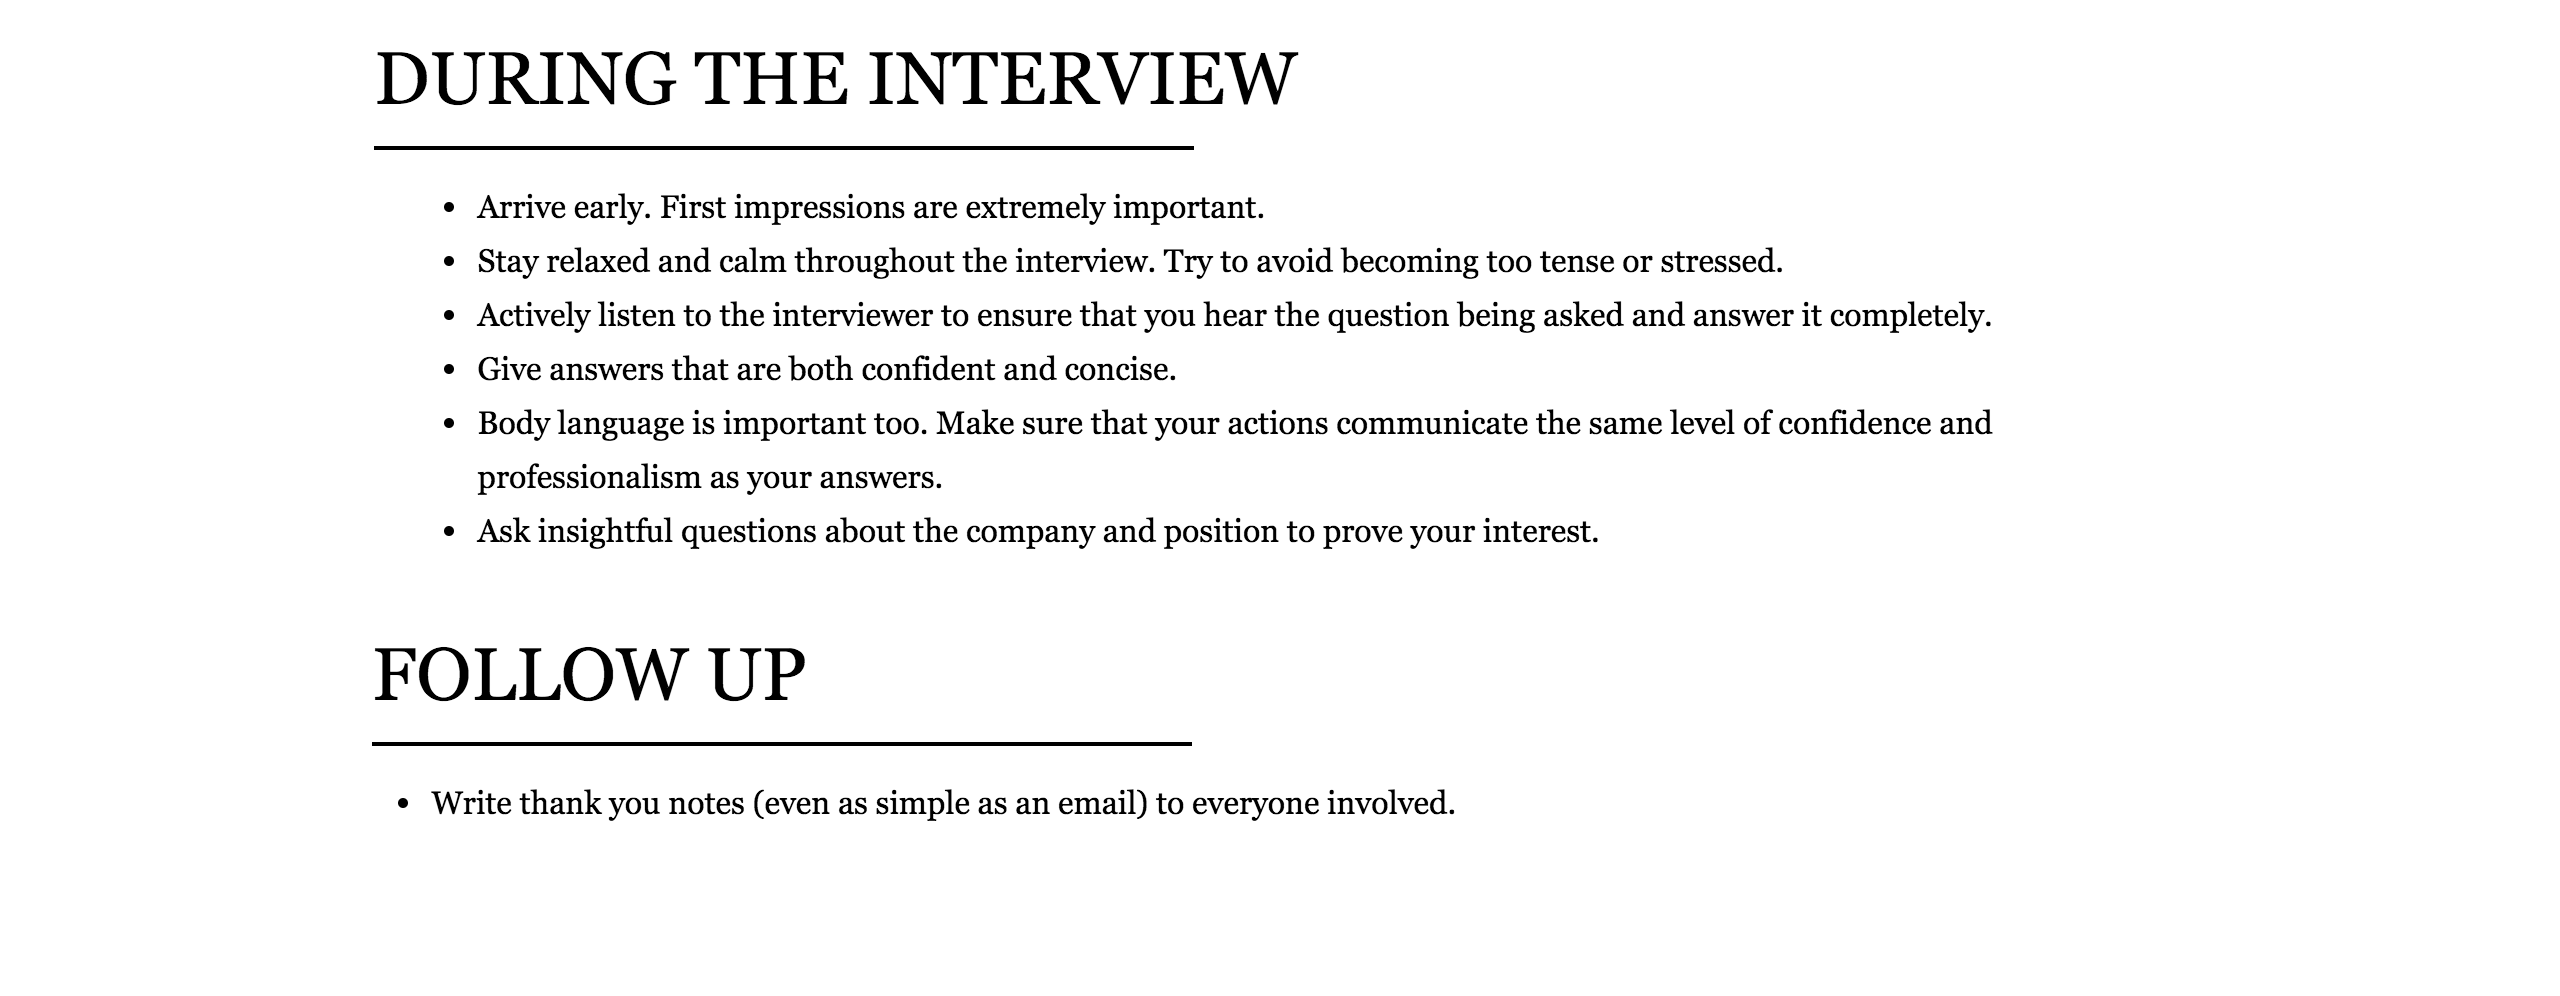
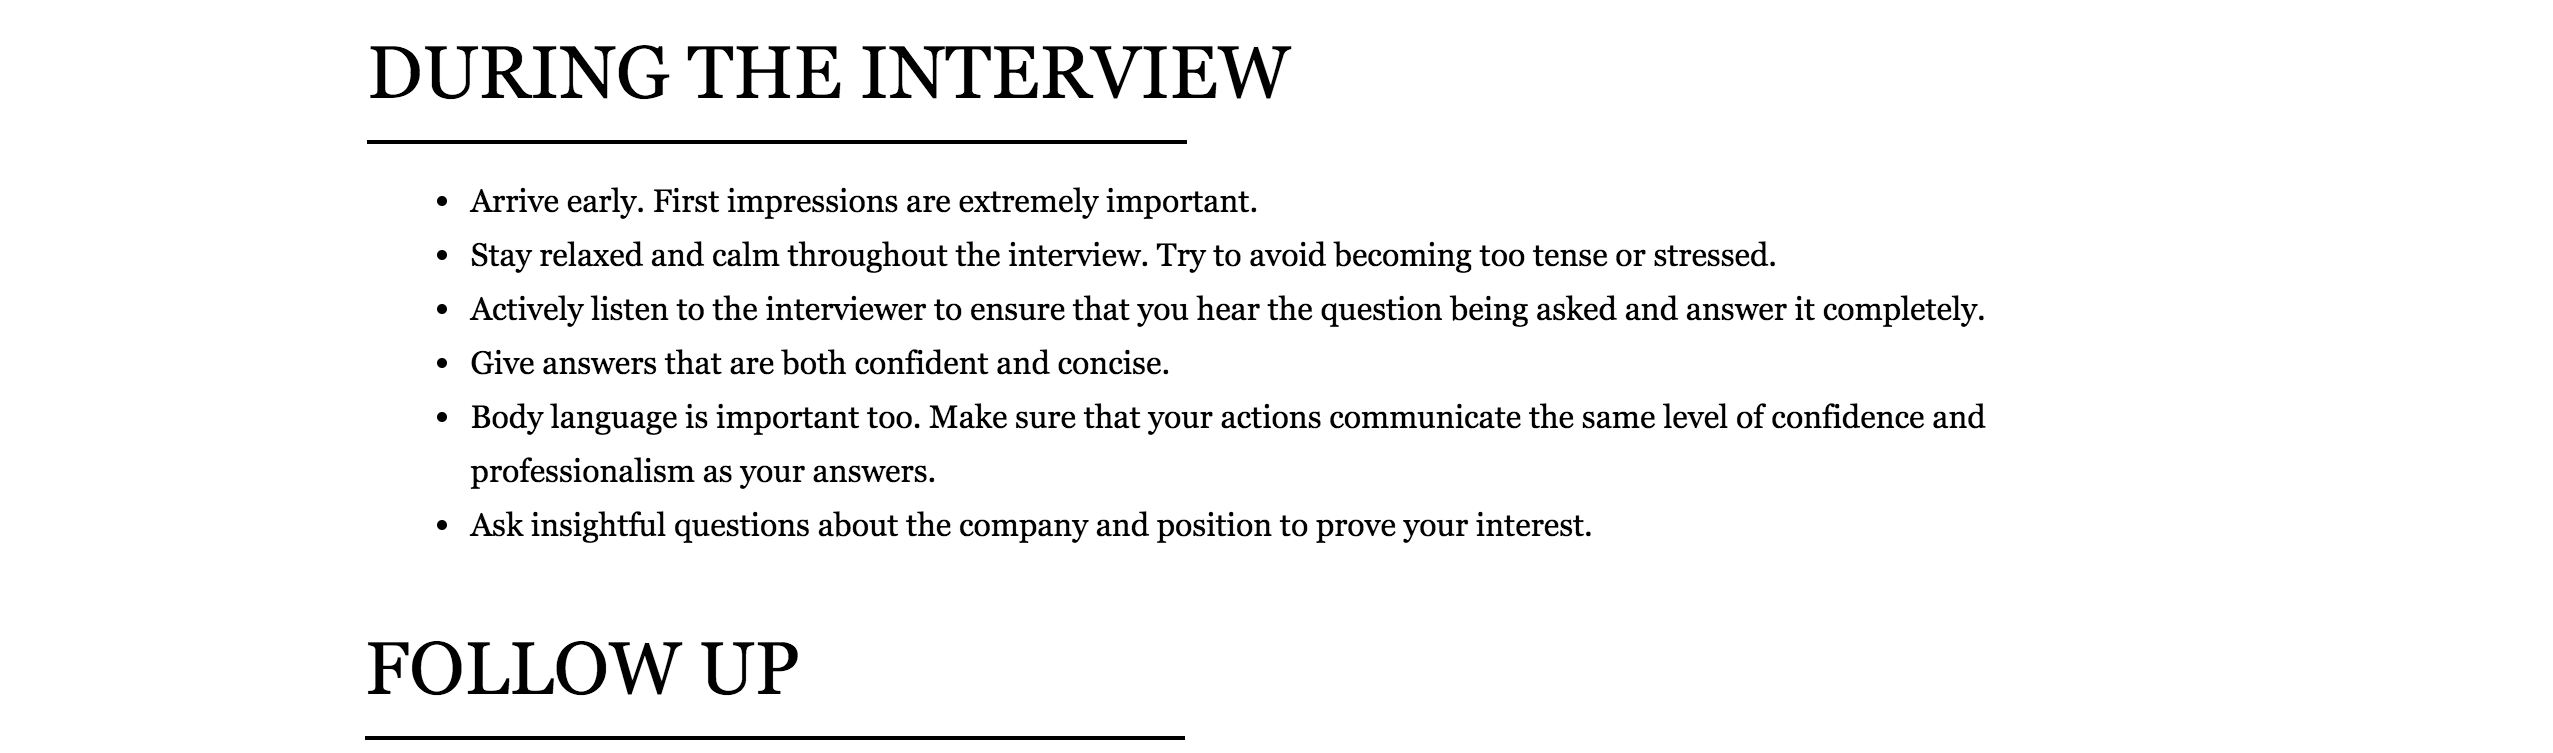
fixed tips page & interview tips page

diff --git a/tips.html b/tips.html
@@ -204,6 +204,96 @@
     button:hover{
         cursor: pointer;
     }
+        
+.hovereffect {
+  width: 100%;
+  height: 100%;
+  float: left;
+  overflow: hidden;
+  position: relative;
+  text-align: center;
+  cursor: default;
+  background: #FCD307;
+}
+
+.hovereffect .overlay {
+  width: 100%;
+  height: 100%;
+  position: absolute;
+  overflow: hidden;
+  top: 0;
+  left: 0;
+  padding: 50px 20px;
+}
+
+.hovereffect img {
+  display: block;
+  position: relative;
+  max-width: none;
+  width: calc(100% + 20px);
+  -webkit-transition: opacity 0.35s, -webkit-transform 0.35s;
+  transition: opacity 0.35s, transform 0.35s;
+  -webkit-transform: translate3d(-10px,0,0);
+  transform: translate3d(-10px,0,0);
+  -webkit-backface-visibility: hidden;
+  backface-visibility: hidden;
+}
+
+.hovereffect:hover img {
+  opacity: 0.4;
+  filter: alpha(opacity=40);
+  -webkit-transform: translate3d(0,0,0);
+  transform: translate3d(0,0,0);
+}
+
+.hovereffect h2 {
+  text-transform: uppercase;
+  color: #fff;
+  text-align: center;
+  position: relative;
+  font-size: 17px;
+  overflow: hidden;
+  padding: 0.5em 0;
+  background-color: transparent;
+}
+
+.hovereffect h2:after {
+  position: absolute;
+  bottom: 0;
+  left: 0;
+  width: 100%;
+  height: 2px;
+  background: #fff;
+  content: '';
+  -webkit-transition: -webkit-transform 0.35s;
+  transition: transform 0.35s;
+  -webkit-transform: translate3d(-100%,0,0);
+  transform: translate3d(-100%,0,0);
+}
+
+.hovereffect:hover h2:after {
+  -webkit-transform: translate3d(0,0,0);
+  transform: translate3d(0,0,0);
+}
+
+.hovereffect a, .hovereffect p {
+  color: #FFF;
+  opacity: 0;
+  filter: alpha(opacity=0);
+  -webkit-transition: opacity 0.35s, -webkit-transform 0.35s;
+  transition: opacity 0.35s, transform 0.35s;
+  -webkit-transform: translate3d(100%,0,0);
+  transform: translate3d(100%,0,0);
+}
+
+.hovereffect:hover a, .hovereffect:hover p {
+  opacity: 1;
+  filter: alpha(opacity=100);
+  -webkit-transform: translate3d(0,0,0);
+  transform: translate3d(0,0,0);
+}
+
+
     
    
     
@@ -222,14 +312,61 @@
     
     
      <img src="tipsheader.png" width=100%>
+    <br><br>
+     <img src="mustreadtips.png" width=90% style="margin-left: 65px">
     
-    <div id=container>
-    <center><img id="tipsgraphic" src="tipsmainscreen.png"></center>
-        <button id="interview" onclick="location.href = 'interviewtips.html'"></button>
-        <button id="resume" onclick="location.href = 'resumetips.html'"></button>
-        <button id="coverletter" onclick="location.href = 'coverlettertips.html'"></button>
-        <button id="application" onclick="location.href = 'applicationformtips.html'"></button>
+    
+<div class="container" style="margin-top:30px; padding-bottom: 35px;    margin-left: 30%">
+  <div class="row">
+    
+    <div class="col-lg-3 col-md-4 col-sm-6 col-xs-12">
+      <div class="hovereffect">
+        <img class="img-responsive" src="interview_tips_pg.jpeg" alt="" style="height: 250px">
+        <div class="overlay">
+          <h2>INTERVIEW</h2>
+				  <p><a href="interviewtips.html">GET STARTED</a></p> 
+        </div>
+      </div>
     </div>
+      
+          <div class="col-lg-3 col-md-4 col-sm-6 col-xs-12">
+      <div class="hovereffect">
+        <img class="img-responsive" src="resume_tips_pg.jpeg" alt="" style="height: 250px">
+        <div class="overlay">
+          <h2>RESUME</h2>
+				  <p><a href="resumetips.html">GET STARTED</a></p> 
+        </div>
+      </div>
+    </div> <br><br><br><br><br><br><br><br><br><br><br><br><br><br>
+      
+          <div class="col-lg-3 col-md-4 col-sm-6 col-xs-12">
+      <div class="hovereffect">
+        <img class="img-responsive" src="coverletter_tips_pg.jpeg" alt="" style="height: 250px">
+        <div class="overlay">
+          <h2>COVER LETTER</h2>
+				  <p><a href="coverlettertips.html">GET STARTED</a></p> 
+        </div>
+      </div>
+    </div>
+      
+          <div class="col-lg-3 col-md-4 col-sm-6 col-xs-12">
+      <div class="hovereffect">
+        <img class="img-responsive" src="application_tips_pg.jpeg" alt="" style="height: 250px">
+        <div class="overlay">
+          <h2>APPLICATION FORMS</h2>
+				  <p><a href="applicationformtips.html">GET STARTED</a></p> 
+        </div>
+      </div>
+    </div>
+    
+  </div>
+    </div>
+    
+
+
+    
+      
+    
     
     <div class="footer-section">
     <div class="footer">
@@ -242,9 +379,10 @@
 		       <p>Fostering futures since 2017. We guarantee convenience throughout your personalized, job search experience. 
                 </p>
             <div class="social-icons"> 
-               <a href="https://www.facebook.com/"><i id="social-fb" class="fa fa-facebook-square fa-3x social"></i></a>
-               <a href="https://twitter.com/"><i id="social-tw" class="fa fa-twitter-square fa-3x social"></i></a>
-	            <a href="mailto:bootsnipp@gmail.com"><i id="social-em" class="fa fa-envelope-square fa-3x social"></i></a>
+               <a href="https://www.facebook.com/Career-Coach-829500543891767/" target="_blank"><i id="social-fb" class="fa fa-facebook-square fa-3x social"></i></a>
+                <a href="https://www.instagram.com/fblacareercoach/" target="_blank"><i id="social-ig" class="fa fa-instagram fa-3x social"></i></a>
+               <a href="https://twitter.com/fblacareercoach" target="_blank"><i id="social-tw" class="fa fa-twitter-square fa-3x social"></i></a>
+	            <a href="mailto:fblacareercoach@gmail.com"><i id="social-em" class="fa fa-envelope-square fa-3x social"></i></a>
 	        </div>
 		    </div>
 		    <div class="col-md-2 footer-two" style="margin-left: 80px">

diff --git a/interviewtips.html b/interviewtips.html
@@ -169,6 +169,8 @@
         border: 0 none;
         text-decoration: none;
     }
+        
+        
     
 
 
@@ -203,14 +205,25 @@
     
     
     <img src="interviewtipsheader.png" width="100%">
+    <img style="padding-top: 30px" src="preparationheader.png" width="100%">
+    <center><img src="interviewtipsgraphic.png" width="60%"></center>
     
 
     
     <div id = "content">
-    <img src="interviewtipscontent1.png" width="100%">
     <img src="interviewtipscontent2.png" width="100%">
     </div>
+    
+    
+    <div style="margin-top: 2%; padding-bottom: 30px">
+        <iframe style="float: left; margin-left: 20%;" src="https://giphy.com/embed/4Xp5iQo8Iqnfi" width="480" height="320" frameBorder="0" class="giphy-embed" allowFullScreen></iframe><p><a href="https://giphy.com/gifs/thank-4Xp5iQo8Iqnfi"></a></p>
+    
+        <img style="padding-bottom: 20px" src="writethankyounotes.png" width="30%">
+    </div>
+    
     <img src="interviewtipssources.png" width="100%">
+    
+    
     
     <div class="footer-section">
     <div class="footer">
@@ -223,10 +236,10 @@
 		       <p>Fostering Futures With Each Click. We guarantee convenience throughout your personalized, job search experience. 
                 </p>
             <div class="social-icons"> 
-               <a href="https://www.facebook.com/"><i id="social-fb" class="fa fa-facebook-square fa-3x social"></i></a>
-                <a href="https://instagram.com/"><i id="social-ig" class="fa fa-instagram fa-3x social"></i></a>
-               <a href="https://twitter.com/"><i id="social-tw" class="fa fa-twitter-square fa-3x social"></i></a>
-	            <a href="mailto:bootsnipp@gmail.com"><i id="social-em" class="fa fa-envelope-square fa-3x social"></i></a>
+               <a href="https://www.facebook.com/Career-Coach-829500543891767/" target="_blank"><i id="social-fb" class="fa fa-facebook-square fa-3x social"></i></a>
+                <a href="https://www.instagram.com/fblacareercoach/" target="_blank"><i id="social-ig" class="fa fa-instagram fa-3x social"></i></a>
+               <a href="https://twitter.com/fblacareercoach" target="_blank"><i id="social-tw" class="fa fa-twitter-square fa-3x social"></i></a>
+	            <a href="mailto:fblacareercoach@gmail.com"><i id="social-em" class="fa fa-envelope-square fa-3x social"></i></a>
 	        </div>
 		    </div>
 		    <div class="col-md-2 footer-two" style="margin-left: 80px">

diff --git a/applicationformtips.html b/applicationformtips.html
@@ -223,10 +223,10 @@
 		       <p>Fostering Futures With Each Click. We guarantee convenience throughout your personalized, job search experience. 
                 </p>
             <div class="social-icons"> 
-               <a href="https://www.facebook.com/"><i id="social-fb" class="fa fa-facebook-square fa-3x social"></i></a>
-                <a href="https://instagram.com/"><i id="social-ig" class="fa fa-instagram fa-3x social"></i></a>
-               <a href="https://twitter.com/"><i id="social-tw" class="fa fa-twitter-square fa-3x social"></i></a>
-	            <a href="mailto:bootsnipp@gmail.com"><i id="social-em" class="fa fa-envelope-square fa-3x social"></i></a>
+               <a href="https://www.facebook.com/Career-Coach-829500543891767/" target="_blank"><i id="social-fb" class="fa fa-facebook-square fa-3x social"></i></a>
+                <a href="https://www.instagram.com/fblacareercoach/" target="_blank"><i id="social-ig" class="fa fa-instagram fa-3x social"></i></a>
+               <a href="https://twitter.com/fblacareercoach" target="_blank"><i id="social-tw" class="fa fa-twitter-square fa-3x social"></i></a>
+	            <a href="mailto:fblacareercoach@gmail.com"><i id="social-em" class="fa fa-envelope-square fa-3x social"></i></a>
 	        </div>
 		    </div>
 		    <div class="col-md-2 footer-two" style="margin-left: 80px">

diff --git a/coverlettertips.html b/coverlettertips.html
@@ -221,10 +221,10 @@
 		       <p>Fostering Futures With Each Click. We guarantee convenience throughout your personalized, job search experience. 
                 </p>
             <div class="social-icons"> 
-               <a href="https://www.facebook.com/"><i id="social-fb" class="fa fa-facebook-square fa-3x social"></i></a>
-                <a href="https://instagram.com/"><i id="social-ig" class="fa fa-instagram fa-3x social"></i></a>
-               <a href="https://twitter.com/"><i id="social-tw" class="fa fa-twitter-square fa-3x social"></i></a>
-	            <a href="mailto:bootsnipp@gmail.com"><i id="social-em" class="fa fa-envelope-square fa-3x social"></i></a>
+               <a href="https://www.facebook.com/Career-Coach-829500543891767/" target="_blank"><i id="social-fb" class="fa fa-facebook-square fa-3x social"></i></a>
+                <a href="https://www.instagram.com/fblacareercoach/" target="_blank"><i id="social-ig" class="fa fa-instagram fa-3x social"></i></a>
+               <a href="https://twitter.com/fblacareercoach" target="_blank"><i id="social-tw" class="fa fa-twitter-square fa-3x social"></i></a>
+	            <a href="mailto:fblacareercoach@gmail.com"><i id="social-em" class="fa fa-envelope-square fa-3x social"></i></a>
 	        </div>
 		    </div>
 		    <div class="col-md-2 footer-two" style="margin-left: 80px">

diff --git a/customerreviews.html b/customerreviews.html
@@ -197,10 +197,10 @@
 		       <p>Fostering Futures With Each Click. We guarantee convenience throughout your personalized, job search experience. 
                 </p>
             <div class="social-icons"> 
-               <a href="https://www.facebook.com/"><i id="social-fb" class="fa fa-facebook-square fa-3x social"></i></a>
-                <a href="https://instagram.com/"><i id="social-ig" class="fa fa-instagram fa-3x social"></i></a>
-               <a href="https://twitter.com/"><i id="social-tw" class="fa fa-twitter-square fa-3x social"></i></a>
-	            <a href="mailto:bootsnipp@gmail.com"><i id="social-em" class="fa fa-envelope-square fa-3x social"></i></a>
+               <a href="https://www.facebook.com/Career-Coach-829500543891767/" target="_blank"><i id="social-fb" class="fa fa-facebook-square fa-3x social"></i></a>
+                <a href="https://www.instagram.com/fblacareercoach/" target="_blank"><i id="social-ig" class="fa fa-instagram fa-3x social"></i></a>
+               <a href="https://twitter.com/fblacareercoach" target="_blank"><i id="social-tw" class="fa fa-twitter-square fa-3x social"></i></a>
+	            <a href="mailto:fblacareercoach@gmail.com"><i id="social-em" class="fa fa-envelope-square fa-3x social"></i></a>
 	        </div>
 		    </div>
 		    <div class="col-md-2 footer-two" style="margin-left: 80px">

diff --git a/findajob.html b/findajob.html
@@ -245,10 +245,10 @@
 		       <p>Fostering Futures With Each Click. We guarantee convenience throughout your personalized, job search experience. 
                 </p>
             <div class="social-icons"> 
-               <a href="https://www.facebook.com/"><i id="social-fb" class="fa fa-facebook-square fa-3x social"></i></a>
-                <a href="https://instagram.com/"><i id="social-ig" class="fa fa-instagram fa-3x social"></i></a>
-               <a href="https://twitter.com/"><i id="social-tw" class="fa fa-twitter-square fa-3x social"></i></a>
-	            <a href="mailto:bootsnipp@gmail.com"><i id="social-em" class="fa fa-envelope-square fa-3x social"></i></a>
+               <a href="https://www.facebook.com/Career-Coach-829500543891767/" target="_blank"><i id="social-fb" class="fa fa-facebook-square fa-3x social"></i></a>
+                <a href="https://www.instagram.com/fblacareercoach/" target="_blank"><i id="social-ig" class="fa fa-instagram fa-3x social"></i></a>
+               <a href="https://twitter.com/fblacareercoach" target="_blank"><i id="social-tw" class="fa fa-twitter-square fa-3x social"></i></a>
+	            <a href="mailto:fblacareercoach@gmail.com"><i id="social-em" class="fa fa-envelope-square fa-3x social"></i></a>
 	        </div>
 		    </div>
 		    <div class="col-md-2 footer-two" style="margin-left: 80px">

diff --git a/index.html b/index.html
@@ -349,9 +349,9 @@
 		       <p>Fostering Futures With Each Click. We guarantee convenience throughout your personalized, job search experience. 
                 </p>
             <div class="social-icons"> 
-               <a href="https://www.facebook.com/"><i id="social-fb" class="fa fa-facebook-square fa-3x social"></i></a>
-                <a href="https://instagram.com/"><i id="social-ig" class="fa fa-instagram fa-3x social"></i></a>
-               <a href="https://twitter.com/"><i id="social-tw" class="fa fa-twitter-square fa-3x social"></i></a>
+               <a href="https://www.facebook.com/Career-Coach-829500543891767/" target="_blank"><i id="social-fb" class="fa fa-facebook-square fa-3x social"></i></a>
+                <a href="https://www.instagram.com/fblacareercoach/" target="_blank"><i id="social-ig" class="fa fa-instagram fa-3x social"></i></a>
+               <a href="https://twitter.com/fblacareercoach" target="_blank"><i id="social-tw" class="fa fa-twitter-square fa-3x social"></i></a>
 	            <a href="mailto:fblacareercoach@gmail.com"><i id="social-em" class="fa fa-envelope-square fa-3x social"></i></a>
 	        </div>
 		    </div>
